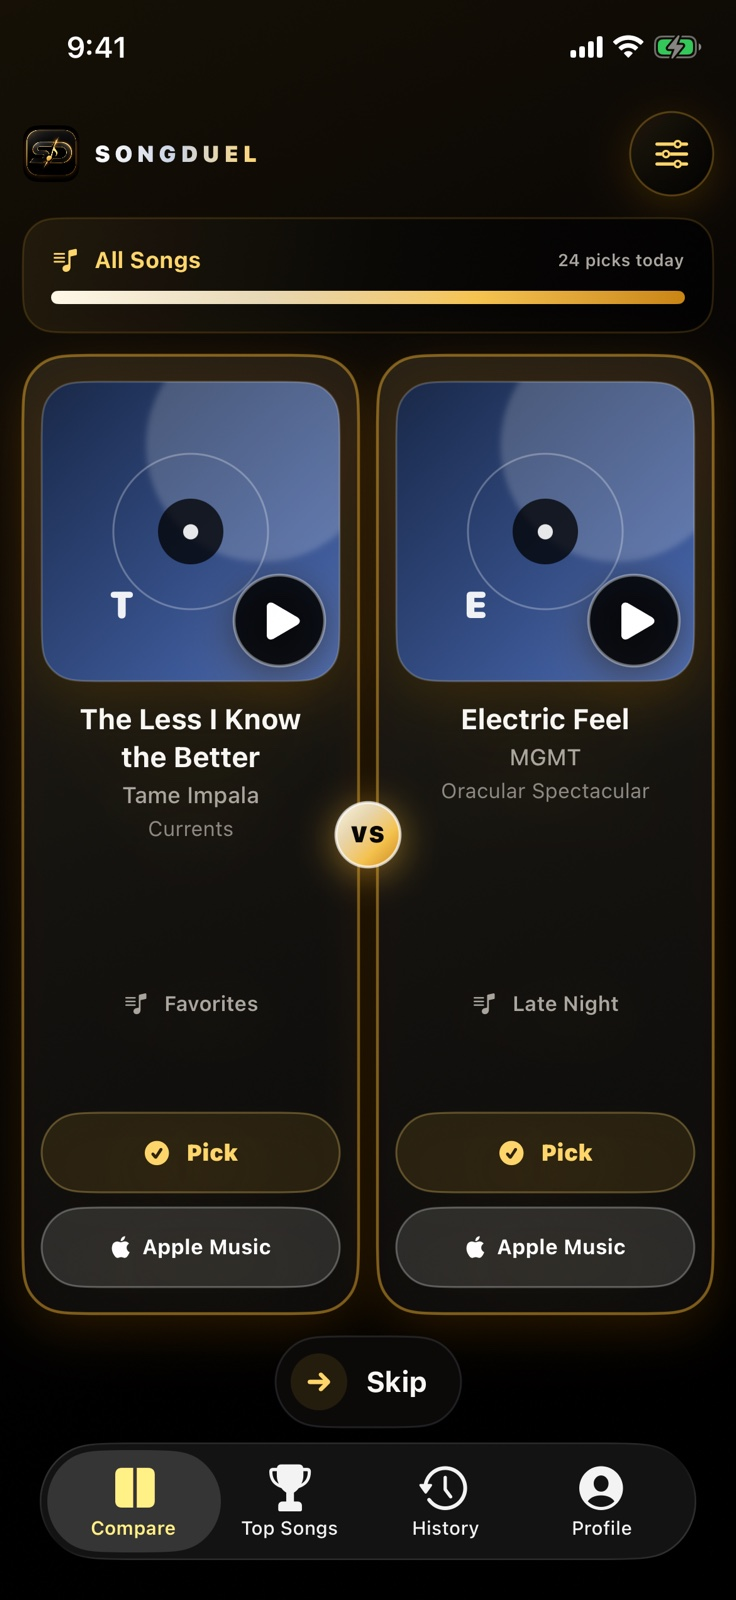
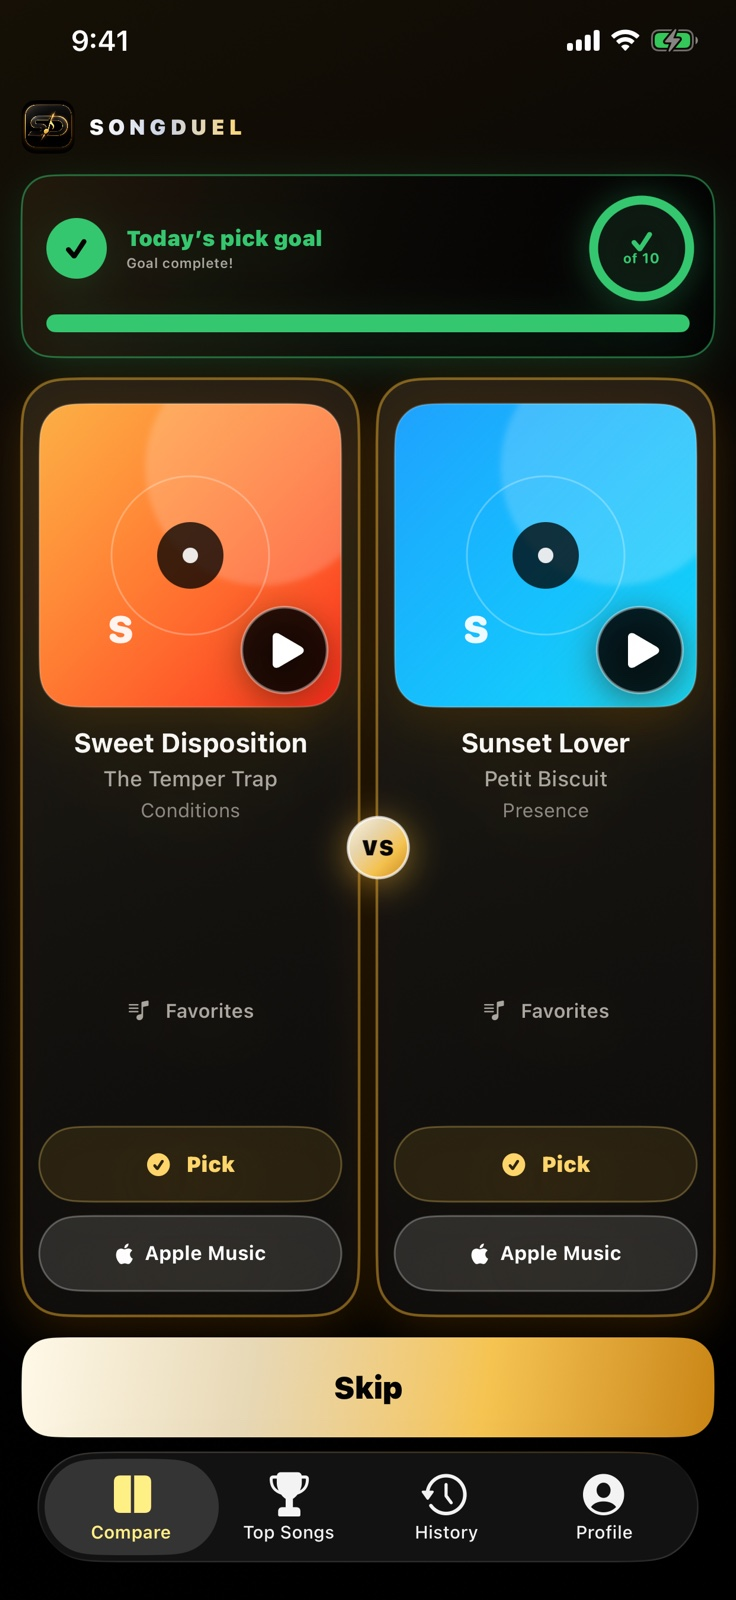
Sync website with latest SongDuel iOS updates

diff --git a/index.html b/index.html
@@ -6,10 +6,10 @@
   <meta name="theme-color" content="#050403">
   <meta name="description" content="SongDuel turns quick head-to-head choices into a personal ranking of the music you already love.">
   <meta property="og:title" content="SongDuel — Your music. Your ranking.">
-  <meta property="og:description" content="Stop guessing at your favorite songs. Pick a winner, build your ranking, and watch your listening eras take shape.">
+  <meta property="og:description" content="Pick between two songs, watch your evolving Top 10 take shape, and build confidence with every comparison.">
   <meta property="og:type" content="website">
-  <meta property="og:url" content="https://ssmkconsulting.github.io/songduel.web/">
-  <meta property="og:image" content="https://ssmkconsulting.github.io/songduel.web/assets/songduel-logo.png">
+  <meta property="og:url" content="https://songduel.app/">
+  <meta property="og:image" content="https://songduel.app/assets/songduel-logo.png">
   <meta name="twitter:card" content="summary_large_image">
   <title>SongDuel — Your music. Your ranking.</title>
   <link rel="icon" href="assets/favicon.png" type="image/png">
@@ -112,19 +112,19 @@
             <div class="step-number">01</div>
             <div class="step-icon icon-library" aria-hidden="true"><span></span><span></span><span></span></div>
             <h3>Connect your library</h3>
-            <p>Bring in your saved Apple Music songs and playlists. Your collection stays yours.</p>
+            <p>Bring in songs from your Apple Music library and playlists. SongDuel builds one ranking across your connected collection.</p>
           </article>
           <article class="step-card featured" data-reveal>
             <div class="step-number">02</div>
             <div class="versus-mini" aria-hidden="true"><span>A</span><b>VS</b><span>B</span></div>
             <h3>Choose your favorite</h3>
-            <p>Preview either song, choose a winner or skip—and use the three-second undo window if instinct changes.</p>
+            <p>Tap either song card. During the short confirmation, tap again to cancel, switch your choice, or skip the matchup.</p>
           </article>
           <article class="step-card" data-reveal>
             <div class="step-number">03</div>
             <div class="step-icon icon-podium" aria-hidden="true"><span></span><span></span><span></span></div>
             <h3>Watch your taste emerge</h3>
-            <p>Rankings and History begin after three picks, then grow more meaningful with every matchup.</p>
+            <p>Top Songs and History unlock after three picks. Your evolving Top 10 gets more confident as the evidence grows.</p>
           </article>
         </div>
       </div>
@@ -165,36 +165,49 @@
           <p>A clear view of what is rising, what is lasting, and how your taste changes over time.</p>
         </div>
         <div class="feature-showcase">
-          <article class="feature-panel copy-panel" data-reveal>
+          <article class="feature-panel copy-panel rankings-copy" data-reveal>
             <span class="feature-index">01 / LIVE RANKINGS</span>
-            <h3>A Top 25 that earns its place.</h3>
-            <p>Your full Top 25 unlocks after 1,000 comparisons across a broad set of songs—so it reflects real signal, not a first impression.</p>
+            <h3>Your Top 10 starts early.</h3>
+            <p>See your best estimate after the first few picks, then watch it gain confidence at clear milestones as you keep comparing.</p>
             <ul>
-              <li>Live milestone progress</li>
-              <li>Search and playlist filters</li>
-              <li>Share your Top 3 once unlocked</li>
+              <li>Top 3 confidence at 250 picks</li>
+              <li>Top 6 at 500 and Top 10 at 1,000</li>
+              <li>Search, previews, movement, and pick totals</li>
             </ul>
           </article>
-          <div class="feature-panel image-panel" data-reveal>
-            <div class="phone feature-phone"><div class="phone-island" aria-hidden="true"></div><img src="assets/screen-rankings.jpg" alt="SongDuel Top Songs screen showing progress toward a reliable Top 25" loading="lazy" width="736" height="1600"></div>
+          <div class="feature-panel image-panel rankings-image" data-reveal>
+            <div class="phone feature-phone"><div class="phone-island" aria-hidden="true"></div><img src="assets/screen-rankings.jpg" alt="SongDuel Top Songs screen showing an evolving Top 10 and confidence progress" loading="lazy" width="736" height="1600"></div>
           </div>
           <div class="feature-panel image-panel history-panel" data-reveal>
-            <div class="phone feature-phone"><div class="phone-island" aria-hidden="true"></div><img src="assets/screen-history.jpg" alt="SongDuel listening history and insights screen" loading="lazy" width="736" height="1600"></div>
+            <div class="phone feature-phone"><div class="phone-island" aria-hidden="true"></div><img src="assets/screen-history.jpg" alt="SongDuel History screen showing ranking signals and monthly movement" loading="lazy" width="736" height="1600"></div>
           </div>
-          <article class="feature-panel copy-panel" data-reveal>
+          <article class="feature-panel copy-panel history-copy" data-reveal>
             <span class="feature-index">02 / LISTENING ERAS</span>
             <h3>Your taste has a story.</h3>
-            <p>See how many songs you have ranked, your comparison total, current number one, and when your ranking journey began.</p>
+            <p>See the songs and signals shaping your taste, then move through daily, monthly, and yearly snapshots of your ranking.</p>
             <ul>
-              <li>At-a-glance journey metrics</li>
-              <li>Biggest movers and ranking signals</li>
-              <li>Daily, monthly, and yearly snapshots</li>
+              <li>Most compared and newest additions</li>
+              <li>Monthly and yearly movers</li>
+              <li>Historical number ones and rankings</li>
             </ul>
           </article>
+          <article class="feature-panel copy-panel profile-copy" data-reveal>
+            <span class="feature-index">03 / YOUR ROUTINE</span>
+            <h3>Build the habit your way.</h3>
+            <p>Set a daily comparison goal, choose an optional reminder, and keep every account and learning control close at hand.</p>
+            <ul>
+              <li>Choose a daily goal from 1 to 100</li>
+              <li>Add an on-device profile photo</li>
+              <li>Replay the tutorial whenever you want</li>
+            </ul>
+          </article>
+          <div class="feature-panel image-panel profile-panel" data-reveal>
+            <div class="phone feature-phone"><div class="phone-island" aria-hidden="true"></div><img src="assets/screen-profile.jpg" alt="SongDuel Profile screen showing daily goal and reminder controls" loading="lazy" width="736" height="1600"></div>
+          </div>
         </div>
         <div class="feature-strip" data-reveal>
           <div><span class="strip-icon">♫</span><strong>Sync while you compare</strong><small>Live import progress keeps the music flowing</small></div>
-          <div><span class="strip-icon">↗</span><strong>Your Top 10 playlist</strong><small>Publish your favorites back to Apple Music</small></div>
+          <div><span class="strip-icon">◎</span><strong>Listening, kept separate</strong><small>Most Listened never pretends to be your ranking</small></div>
           <div><span class="strip-icon">◫</span><strong>Made to share</strong><small>Export polished Top 3 cards</small></div>
         </div>
       </div>
@@ -232,19 +245,19 @@
         <div class="faq-list" data-reveal>
           <details>
             <summary>How does SongDuel rank my music?<span></span></summary>
-            <p>Each head-to-head pick updates both songs with an Elo-style rating. Rankings begin after three picks, while the reliable Top 25 unlocks after 1,000 comparisons across the breadth of songs shown in the app.</p>
+            <p>Each head-to-head pick updates both songs with an Elo-style rating. Your evolving Top 10 appears after a three-pick warm-up, with confidence milestones for the Top 3 at 250 picks, Top 6 at 500, and Top 10 at 1,000.</p>
           </details>
           <details>
             <summary>Do I need an Apple Music subscription?<span></span></summary>
             <p>SongDuel’s current release is built around Apple Music. Some playback and library features depend on Apple Music availability, an active subscription, and Sync Library.</p>
           </details>
           <details>
-            <summary>Does SongDuel change my playlists?<span></span></summary>
-            <p>SongDuel never edits your existing playlists. It only creates or refreshes its own “SongDuel Top 10” playlist after you explicitly tap the playlist action.</p>
+            <summary>Are Most Listened songs part of my ranking?<span></span></summary>
+            <p>No. Apple Music listening activity is shown separately and without rank numbers. Only your head-to-head SongDuel picks determine your evolving Top 10.</p>
           </details>
           <details>
             <summary>Can I delete my data?<span></span></summary>
-            <p>Yes. From Profile you can clear ranking data, disconnect Apple Music, log out, or permanently delete your SongDuel account and associated cloud data.</p>
+            <p>Yes. From Profile you can clear app data without deleting your account, disconnect Apple Music, log out, or permanently delete your SongDuel account and associated cloud data.</p>
           </details>
         </div>
       </div>

diff --git a/support.html b/support.html
@@ -26,8 +26,8 @@
         <article class="legal-copy">
           <section id="basics"><h2>Start with the basics</h2><ul><li>Confirm your iPhone has a working internet connection.</li><li>Update SongDuel and iOS to the latest available versions.</li><li>Force-quit SongDuel, reopen it, and leave it active briefly so sync can finish.</li><li>If a specific song has no preview, use its Apple Music button. Apple Music does not supply a preview for every track.</li></ul></section>
           <section id="apple-music"><h2>Apple Music connection</h2><ul><li>Open iOS Settings and confirm you are signed in under Media &amp; Purchases.</li><li>In the Music settings, turn on Sync Library.</li><li>Confirm SongDuel is allowed to access Media &amp; Apple Music.</li><li>Open Profile in SongDuel, disconnect Apple Music, and reconnect it if authorization has expired.</li><li>Full-song playback and some library features require an active Apple Music subscription.</li></ul><p>Disconnecting Apple Music does not delete or sign out your SongDuel account.</p></section>
-          <section id="sync"><h2>Library, ranking, and sync</h2><p>SongDuel saves picks offline first, so a comparison should not wait for the network. Cloud backup and restore occur separately after you sign in.</p><ul><li>Use the playlist filters to confirm the missing song is in the selected scope.</li><li>SongDuel needs at least two eligible songs for a comparison. Rankings and History begin after three completed picks.</li><li>The reliable Top 25 and historical Top 10 unlock after 1,000 comparisons and the song-coverage milestone shown in the app.</li><li>You can keep comparing while a large Apple Music library imports; SongDuel displays live progress as it runs.</li><li>The Top 10 playlist becomes available after ten eligible songs are ranked.</li></ul></section>
-          <section id="account"><h2>Account and data controls</h2><p>Open Profile in SongDuel to disconnect Apple Music, delete ranking data without signing out, log out, or permanently delete your SongDuel account. Permanent deletion requires confirmation with the same Apple Account so SongDuel can revoke its Sign in with Apple grant before removing associated cloud data, subject to limited security, legal, and backup retention described in the <a href="privacy.html">Privacy Policy</a>.</p></section>
+          <section id="sync"><h2>Library, ranking, and sync</h2><p>SongDuel saves picks offline first, so a comparison should not wait for the network. Cloud backup and restore occur separately after you sign in.</p><ul><li>SongDuel needs at least two eligible songs for a comparison. Top Songs and History unlock after three completed picks.</li><li>Your evolving Top 10 is an early estimate. Confidence milestones arrive for the Top 3 at 250 picks, Top 6 at 500, and Top 10 at 1,000.</li><li>Apple Music’s Most Listened Songs are displayed separately and do not determine your SongDuel ranking.</li><li>You can keep comparing while a large Apple Music library imports; SongDuel displays live progress as it runs.</li><li>If your daily progress is unexpected, check the Daily goal in Profile; it can be set from 1 to 100 comparisons.</li></ul></section>
+          <section id="account"><h2>Account and data controls</h2><p>Open Profile in SongDuel to add or remove an on-device profile photo, replay the tutorial, disconnect Apple Music, clear app data without signing out, log out, or permanently delete your SongDuel account. Permanent deletion requires confirmation with the same Apple Account so SongDuel can revoke its Sign in with Apple grant before removing associated cloud data, subject to limited security, legal, and backup retention described in the <a href="privacy.html">Privacy Policy</a>.</p></section>
           <section id="contact"><h2>Contact support</h2><p>Email <a href="mailto:ssmk.consulting@icloud.com">ssmk.consulting@icloud.com</a> and include:</p><ul><li>a short description of what happened and what you expected;</li><li>the SongDuel app version;</li><li>your iPhone model and iOS version; and</li><li>steps that reliably reproduce the problem, if known.</li></ul><p class="legal-note"><strong>Do not send secrets.</strong> Never include passwords, Apple credentials, authentication tokens, private relay addresses, or personal music history.</p><p>Support requests are reviewed as soon as practical. SongDuel is operated by SSMK Consulting LLC in South Carolina, United States.</p></section>
         </article>
       </div>

diff --git a/styles.css b/styles.css
@@ -140,7 +140,7 @@ h2 em, h1 span { color: var(--gold-bright); font-style: normal; }
 .ambient-one { width: 420px; height: 420px; right: -100px; top: 10%; background: #925c00; }
 .ambient-two { width: 260px; height: 260px; left: 22%; bottom: -160px; background: #f3b731; opacity: .12; }
 .hero-grid { display: grid; grid-template-columns: .92fr 1.08fr; align-items: center; gap: 60px; position: relative; z-index: 2; padding-top: 55px; }
-.hero-copy { position: relative; z-index: 3; }
+.hero-copy { position: relative; z-index: 3; min-width: 0; }
 .eyebrow { margin-bottom: 23px; color: #d8d2c7; letter-spacing: .13em; }
 .status-dot { width: 8px; height: 8px; border-radius: 50%; background: var(--gold-bright); box-shadow: 0 0 0 5px rgba(255, 214, 107, .12), 0 0 18px var(--gold); }
 .hero h1 { font-size: clamp(3.8rem, 7vw, 7.35rem); margin-bottom: 27px; max-width: 780px; }
@@ -257,6 +257,7 @@ h2 em, h1 span { color: var(--gold-bright); font-style: normal; }
 .image-panel::before { content: ""; position: absolute; inset: 0; background-image: radial-gradient(rgba(255,214,107,.25) 1px, transparent 1px); background-size: 24px 24px; mask-image: linear-gradient(transparent, black 25%, transparent); opacity: .25; }
 .feature-phone { width: 310px; height: 672px; top: 70px; left: 50%; transform: translateX(-50%); }
 .history-panel { background: radial-gradient(circle at 50% 50%, rgba(201,210,227,.12), transparent 46%), #080706; }
+.profile-panel { background: radial-gradient(circle at 50% 42%, rgba(53,199,111,.1), transparent 43%), #080706; }
 .feature-index { color: var(--gold); }
 .feature-strip { margin-top: 18px; display: grid; grid-template-columns: repeat(3, 1fr); border: 1px solid rgba(255,255,255,.07); border-radius: 26px; background: #0a0907; }
 .feature-strip > div { padding: 28px; display: grid; grid-template-columns: auto 1fr; grid-template-rows: auto auto; column-gap: 15px; }
@@ -376,7 +377,8 @@ h2 em, h1 span { color: var(--gold-bright); font-style: normal; }
   .site-nav.legal-nav a { padding: 0; border: 0; font-size: .78rem; }
   .hero { height: auto; min-height: 1080px; padding: 145px 0 70px; align-items: flex-start; }
   .hero-grid { grid-template-columns: 1fr; text-align: center; }
-  .hero-copy { display: flex; flex-direction: column; align-items: center; }
+  .hero-copy { display: flex; width: 100%; min-width: 0; flex-direction: column; align-items: center; }
+  .hero-copy > * { max-width: 100%; }
   .hero-lede { max-width: 580px; }
   .hero-actions, .hero-proof { justify-content: center; }
   .hero-visual { min-height: 590px; width: min(100%, 620px); margin-inline: auto; }
@@ -390,7 +392,12 @@ h2 em, h1 span { color: var(--gold-bright); font-style: normal; }
   .step-icon, .versus-mini { height: 120px; margin: 20px 0; }
   .feature-showcase { grid-template-columns: 1fr; }
   .feature-panel { min-height: 500px; }
+  .rankings-copy { order: 1; }
+  .rankings-image { order: 2; }
+  .history-copy { order: 3; }
   .history-panel { order: 4; }
+  .profile-copy { order: 5; }
+  .profile-panel { order: 6; }
   .feature-strip { grid-template-columns: 1fr; }
   .feature-strip > div + div { border-left: 0; border-top: 1px solid rgba(255,255,255,.07); }
   .privacy-mark { min-height: 320px; }
@@ -411,11 +418,11 @@ h2 em, h1 span { color: var(--gold-bright); font-style: normal; }
   .brand img { width: 38px; height: 38px; }
   .hero { min-height: 960px; padding-top: 100px; }
   .hero-grid { padding-top: 20px; }
-  .hero h1 { font-size: clamp(3.1rem, 15vw, 4.4rem); }
+  .hero h1 { width: 100%; font-size: clamp(2.8rem, 13.4vw, 3.7rem); }
   .hero-lede { font-size: 1rem; }
-  .hero-actions { width: 100%; }
+  .hero-actions { width: 100%; min-width: 0; }
   .hero-actions .button { width: 100%; }
-  .hero-proof { gap: 10px 15px; }
+  .hero-proof { width: 100%; gap: 10px 15px; }
   .hero-visual { min-height: 510px; margin-top: 25px; }
   .phone { border-width: 6px; border-radius: 36px; }
   .phone-main { width: 220px; height: 478px; }

diff --git a/privacy.html b/privacy.html
@@ -40,6 +40,7 @@
             <h2>Information SongDuel handles</h2>
             <h3>Account information</h3>
             <p>When you use Sign in with Apple, we receive an account identifier and, depending on your Apple choices, a name and email address or private relay address. Authentication records and sessions are managed with Supabase.</p>
+            <p>If you choose a profile photo, SongDuel stores the resized image in the app’s local storage on your device. The photo is not included in your SongDuel cloud backup and is removed when you remove it, clear app data, or delete your account from that device.</p>
             <h3>Music and ranking data</h3>
             <p>SongDuel processes Apple Music metadata from the library and playlists you connect, including songs, artists, albums, playlists, artwork, provider identifiers, favorites when available, recent-listening, Replay, recommendation, and availability details. It stores this music metadata and the preference results associated with your SongDuel account so it can sync and restore your experience.</p>
             <h3>Product interaction</h3>
@@ -74,7 +75,7 @@
           </section>
           <section id="choices">
             <h2>Your choices and rights</h2>
-            <p>From Profile in the app, you can disconnect Apple Music, delete local and cloud ranking data without signing out, log out, or permanently delete your SongDuel account. You can also manage Apple Music permission in iOS Settings. Daily reminder notifications are optional and are requested only after you enable them.</p>
+            <p>From Profile in the app, you can manage your local profile photo, replay the tutorial, disconnect Apple Music, delete local and cloud app data without signing out, log out, or permanently delete your SongDuel account. You can also manage Apple Music permission in iOS Settings. Daily reminder notifications are optional and are requested only after you enable them.</p>
             <p>Depending on where you live, you may have rights to access, correct, delete, restrict, object to, or receive a copy of personal information. We may need to verify your request before acting.</p>
             <h3>Children</h3>
             <p>SongDuel is not directed to children under 13 and we do not knowingly collect personal information from children under 13.</p>
